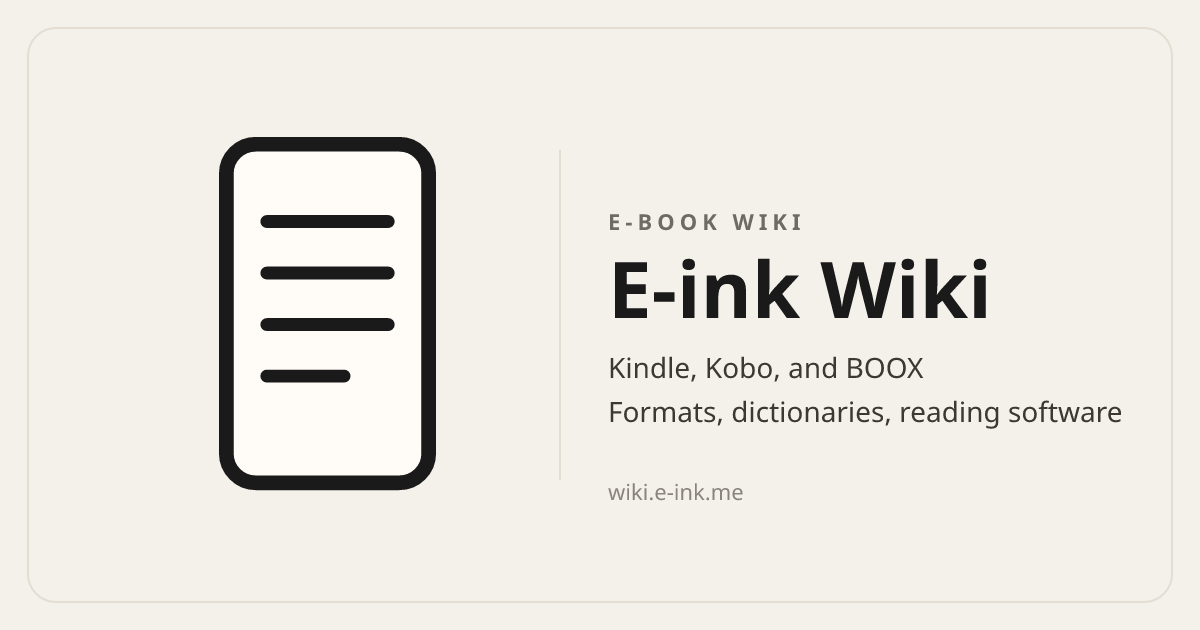
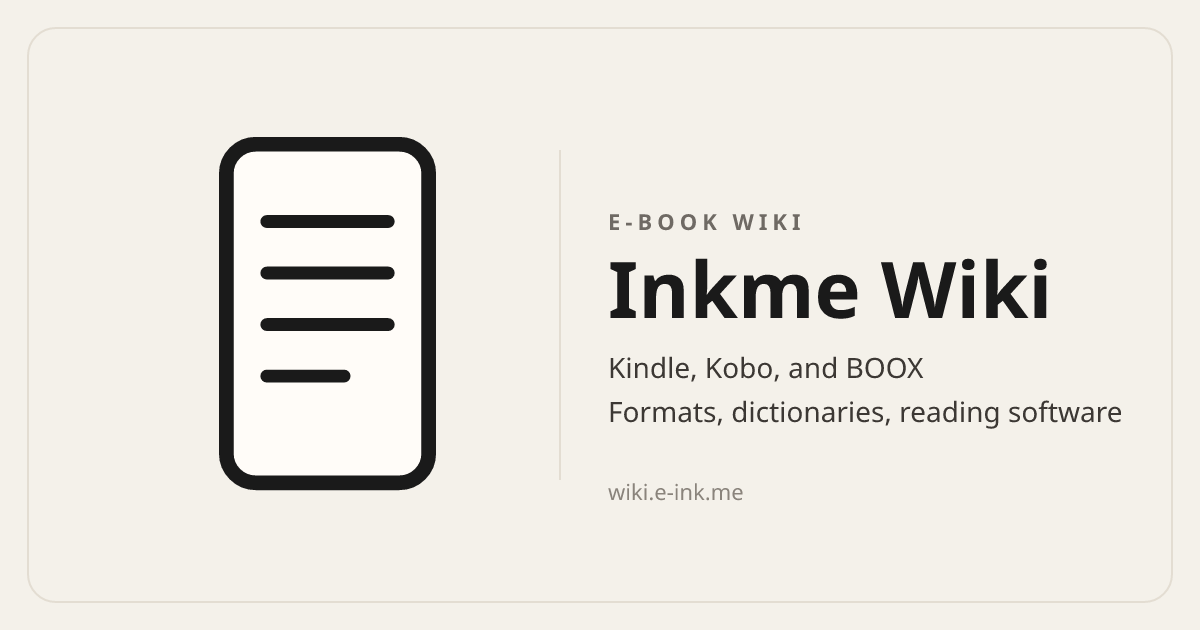
feat: 可见品牌改为 Inkme Wiki (#5)
页眉、页脚、标题、元数据、JSON-LD 与分享图改用站名 Inkme Wiki。
页脚家族链接按 Inkme、News、Games、Nav、Wiki 指向各站根地址。
域名、路由与仓库名不变。

Changed region(s): [[0.4933, 0.3921, 0.8942, 0.5127]]

diff --git a/src/components/SiteShell.tsx b/src/components/SiteShell.tsx
@@ -5,15 +5,23 @@ import { LogoMark } from "@/components/LogoMark";
 import Analytics from "@/components/Analytics";
 import LanguageSwitcher from "@/components/LanguageSwitcher";
 import { getAllPages } from "@/lib/content";
-import { familyHref, LOCALES, localePrefix, ui, type Locale } from "@/lib/i18n";
+import {
+  familyHref,
+  LOCALES,
+  localePrefix,
+  SITE_NAME,
+  ui,
+  type Locale,
+} from "@/lib/i18n";
 
 const footerLinkCls =
   "underline decoration-neutral-300 underline-offset-2 hover:text-neutral-700 dark:hover:text-neutral-200";
 
 /**
- * 全站骨架：header（品牌 / 主站 / GitHub / 语言切换器）+ main + footer + 统计。
+ * 全站骨架：header（品牌 / Inkme / GitHub / 语言切换器）+ main + footer + 统计。
  * 三种语言各有一个 root layout（<html lang> 不同），共用本组件。
- * 页脚有一行家族链接（工具站 / 资讯 / 游戏）；header 的工具站链接与之同一地址。
+ * 页脚有一行家族链接（Inkme / News / Games / Nav / Wiki）；
+ * header 的 Inkme 链接与页脚第一项同一地址。
  */
 export default function SiteShell({
   lang,
@@ -23,6 +31,13 @@ export default function SiteShell({
   children: React.ReactNode;
 }) {
   const t = ui[lang];
+  const familyLinks = [
+    { href: familyHref("inkme"), label: t.familyInkme },
+    { href: familyHref("news"), label: t.familyNews },
+    { href: familyHref("games"), label: t.familyGames },
+    { href: familyHref("nav"), label: t.familyNavLink },
+    { href: familyHref("wiki"), label: t.familyWiki },
+  ];
   const slugMap = Object.fromEntries(
     LOCALES.map((l) => [l, getAllPages(l).map((p) => p.slug)]),
   ) as Record<Locale, string[]>;
@@ -36,15 +51,15 @@ export default function SiteShell({
             className="flex items-center gap-2 text-lg font-bold tracking-tight"
           >
             <LogoMark className="size-7" />
-            E-ink Wiki
+            {SITE_NAME}
           </Link>
           <nav className="flex items-center gap-4 text-sm">
             {/* 普通导航链接回主站（非商业 CTA，保持 wiki 非商业性质） */}
             <a
-              href={familyHref("tools", lang)}
+              href={familyHref("inkme")}
               className="hidden text-neutral-600 hover:text-neutral-900 sm:block dark:text-neutral-400 dark:hover:text-neutral-100"
             >
-              {t.navMainSite}
+              {t.familyInkme}
             </a>
             <a
               href="https://github.com/Selenium39/e-ink-wiki"
@@ -62,19 +77,16 @@ export default function SiteShell({
       <main className="mx-auto max-w-6xl px-4 py-8">{children}</main>
       <footer className="border-t border-neutral-200 py-6 text-center text-xs text-neutral-500 dark:border-neutral-800 dark:text-neutral-400">
         <nav aria-label={t.familyNav} className="mb-2">
-          <a href={familyHref("tools", lang)} className={footerLinkCls}>
-            {t.navMainSite}
-          </a>
-          {" · "}
-          <a href={familyHref("news", lang)} className={footerLinkCls}>
-            {t.familyNews}
-          </a>
-          {" · "}
-          <a href={familyHref("games", lang)} className={footerLinkCls}>
-            {t.familyGames}
-          </a>
+          {familyLinks.map((link, index) => (
+            <span key={link.href}>
+              {index > 0 && " · "}
+              <a href={link.href} className={footerLinkCls}>
+                {link.label}
+              </a>
+            </span>
+          ))}
         </nav>
-        E-ink Wiki · {t.footerLicense} · {t.footerNoAds} ·{" "}
+        {SITE_NAME} · {t.footerLicense} · {t.footerNoAds} ·{" "}
         <a
           href="https://github.com/Selenium39/e-ink-wiki"
           target="_blank"

diff --git a/src/lib/i18n.ts b/src/lib/i18n.ts
@@ -13,6 +13,9 @@ export const LOCALES = ["en", "zh", "es"] as const;
 export type Locale = (typeof LOCALES)[number];
 export const DEFAULT_LOCALE: Locale = "en";
 
+/** 可见站名。域名仍是 wiki.e-ink.me，仓库名不改。 */
+export const SITE_NAME = "Inkme Wiki";
+
 /** <html lang> 值 */
 export const HTML_LANG: Record<Locale, string> = {
   en: "en",
@@ -38,43 +41,32 @@ export function isLocale(value: string): value is Locale {
 }
 
 /**
- * 家族站点（不含 wiki 自身）。各站语言路径形状不同，不能套本站 localePrefix：
- * - e-ink.me：/en /zh /es，无尾斜杠（带斜杠会被 308 剥掉）
- * - news.e-ink.me：/en /zh，无尾斜杠；根路径是错误页，canonical 在 /en。没有西语，es 落到英文版
- * - games.e-ink.me：/en/ /zh/ /es/，保留尾斜杠
- * 不带 UTM，也不加 nofollow。
+ * 家族站点。页脚三语共用这一组根地址和品牌名，不带语言前缀、UTM 或 nofollow。
+ * 顺序：Inkme、Inkme News、Inkme Games、Inkme Nav、Inkme Wiki。
  */
 export const familySites = {
-  tools: {
-    en: "https://e-ink.me/en",
-    zh: "https://e-ink.me/zh",
-    es: "https://e-ink.me/es",
-  },
-  news: {
-    en: "https://news.e-ink.me/en",
-    zh: "https://news.e-ink.me/zh",
-    es: "https://news.e-ink.me/en",
-  },
-  games: {
-    en: "https://games.e-ink.me/en/",
-    zh: "https://games.e-ink.me/zh/",
-    es: "https://games.e-ink.me/es/",
-  },
+  inkme: "https://e-ink.me",
+  news: "https://news.e-ink.me",
+  games: "https://games.e-ink.me",
+  nav: "https://nav.e-ink.me",
+  wiki: "https://wiki.e-ink.me",
 } as const;
 
 export type FamilySite = keyof typeof familySites;
 
-export function familyHref(site: FamilySite, lang: Locale): string {
-  return familySites[site][lang];
+export function familyHref(site: FamilySite): string {
+  return familySites[site];
 }
 
 /** 短 UI 标签（涉及链接与长句的文案在使用组件内按 lang 分支） */
 export const ui = {
   en: {
-    navMainSite: "E-ink Tools",
-    familyNews: "E-ink News",
-    familyGames: "E-ink Games",
-    familyNav: "E-ink family",
+    familyInkme: "Inkme",
+    familyNews: "Inkme News",
+    familyGames: "Inkme Games",
+    familyNavLink: "Inkme Nav",
+    familyWiki: "Inkme Wiki",
+    familyNav: "Inkme sites",
     navGitHub: "GitHub",
     sidebarNav: "Contents",
     fromMobileRead: "From MobileRead Wiki (original)",
@@ -90,10 +82,12 @@ export const ui = {
     goHome: "Go to homepage",
   },
   zh: {
-    navMainSite: "E-ink 工具站",
-    familyNews: "E-ink 资讯",
-    familyGames: "E-ink 游戏",
-    familyNav: "E-ink 家族站点",
+    familyInkme: "Inkme",
+    familyNews: "Inkme News",
+    familyGames: "Inkme Games",
+    familyNavLink: "Inkme Nav",
+    familyWiki: "Inkme Wiki",
+    familyNav: "Inkme 站点",
     navGitHub: "GitHub",
     sidebarNav: "目录",
     fromMobileRead: "译自 MobileRead Wiki（原文）",
@@ -109,10 +103,12 @@ export const ui = {
     goHome: "返回首页",
   },
   es: {
-    navMainSite: "Herramientas E-ink",
-    familyNews: "Noticias E-ink",
-    familyGames: "Juegos E-ink",
-    familyNav: "Familia E-ink",
+    familyInkme: "Inkme",
+    familyNews: "Inkme News",
+    familyGames: "Inkme Games",
+    familyNavLink: "Inkme Nav",
+    familyWiki: "Inkme Wiki",
+    familyNav: "Sitios Inkme",
     navGitHub: "GitHub",
     sidebarNav: "Índice",
     fromMobileRead: "De MobileRead Wiki (original)",

diff --git a/src/lib/seo.ts b/src/lib/seo.ts
@@ -5,6 +5,7 @@ import {
   HTML_LANG,
   LOCALES,
   localePrefix,
+  SITE_NAME,
   type Locale,
 } from "@/lib/i18n";
 
@@ -24,9 +25,9 @@ const OG_LOCALE: Record<Locale, string> = {
 };
 
 const OG_ALT: Record<Locale, string> = {
-  en: "E-ink Wiki, an e-book knowledge base",
-  zh: "E-ink Wiki 电子书知识库",
-  es: "E-ink Wiki, una base de conocimientos sobre libros electrónicos",
+  en: `${SITE_NAME}, an e-book knowledge base`,
+  zh: `${SITE_NAME} 电子书知识库`,
+  es: `${SITE_NAME}, una base de conocimientos sobre libros electrónicos`,
 };
 
 export const siteViewport: Viewport = {
@@ -97,7 +98,7 @@ export function openGraphFor(
 ): NonNullable<Metadata["openGraph"]> {
   return {
     type,
-    siteName: "E-ink Wiki",
+    siteName: SITE_NAME,
     url: pathname,
     locale: OG_LOCALE[lang],
     alternateLocale: LOCALES.filter((item) => item !== lang).map(
@@ -114,16 +115,16 @@ export function rootMetadata(lang: Locale): Metadata {
     title: {
       default:
         lang === "zh"
-          ? "E-ink Wiki — 电子书 Wiki"
+          ? `${SITE_NAME} — 电子书 Wiki`
           : lang === "es"
-            ? "E-ink Wiki — Wiki de libros electrónicos"
-            : "E-ink Wiki — E-book Wiki",
-      template: "%s — E-ink Wiki",
+            ? `${SITE_NAME} — Wiki de libros electrónicos`
+            : `${SITE_NAME} — E-book Wiki`,
+      template: `%s — ${SITE_NAME}`,
     },
     description: DESCRIPTION[lang],
-    applicationName: "E-ink Wiki",
-    authors: [{ name: "E-ink Wiki", url: SITE_URL }],
-    creator: "E-ink Wiki",
+    applicationName: SITE_NAME,
+    authors: [{ name: SITE_NAME, url: SITE_URL }],
+    creator: SITE_NAME,
     icons: {
       icon: [
         { url: "/favicon.ico", sizes: "48x48" },
@@ -167,7 +168,7 @@ export function homeJsonLd(lang: Locale): Record<string, unknown> {
       {
         "@type": "WebSite",
         "@id": `${SITE_URL}/#website`,
-        name: "E-ink Wiki",
+        name: SITE_NAME,
         url: absoluteUrl(pagePath(lang)),
         description: DESCRIPTION[lang],
         inLanguage: LOCALES.map((item) => HTML_LANG[item]),
@@ -176,7 +177,7 @@ export function homeJsonLd(lang: Locale): Record<string, unknown> {
       {
         "@type": "Organization",
         "@id": `${SITE_URL}/#organization`,
-        name: "E-ink Wiki",
+        name: SITE_NAME,
         url: SITE_URL,
         logo: {
           "@type": "ImageObject",

diff --git a/src/components/LicenseFooter.tsx b/src/components/LicenseFooter.tsx
@@ -1,5 +1,5 @@
 import type { WikiFrontmatter } from "@/lib/content";
-import type { Locale } from "@/lib/i18n";
+import { SITE_NAME, type Locale } from "@/lib/i18n";
 
 /**
  * 页脚许可声明——合规义务的落点，每篇必带，按页面语言渲染。
@@ -34,20 +34,20 @@ export default function LicenseFooter({
         <p>
           {lang === "zh" && (
             <>
-              本文为 E-ink Wiki 原创内容{fm.author ? `，作者 ${fm.author}` : ""}，以{" "}
+              本文为 {SITE_NAME} 原创内容{fm.author ? `，作者 ${fm.author}` : ""}，以{" "}
               {cc("CC BY-NC-SA 3.0")} 许可发布。
             </>
           )}
           {lang === "en" && (
             <>
-              This article is original content by E-ink Wiki
+              This article is original content by {SITE_NAME}
               {fm.author ? `, written by ${fm.author}` : ""}, published under{" "}
               {cc("CC BY-NC-SA 3.0")}.
             </>
           )}
           {lang === "es" && (
             <>
-              Este artículo es contenido original de E-ink Wiki
+              Este artículo es contenido original de {SITE_NAME}
               {fm.author ? `, escrito por ${fm.author}` : ""}, publicado bajo{" "}
               {cc("CC BY-NC-SA 3.0")}.
             </>

diff --git a/src/components/WikiPageView.tsx b/src/components/WikiPageView.tsx
@@ -7,7 +7,7 @@ import LicenseFooter from "@/components/LicenseFooter";
 import Figure from "@/components/Figure";
 import JsonLd from "@/components/JsonLd";
 import { getPageBySlug } from "@/lib/content";
-import { HTML_LANG, type Locale } from "@/lib/i18n";
+import { HTML_LANG, SITE_NAME, type Locale } from "@/lib/i18n";
 import {
   absoluteUrl,
   languageAlternates,
@@ -62,7 +62,7 @@ export async function WikiPageView({
                 {
                   "@type": "ListItem",
                   position: 1,
-                  name: "E-ink Wiki",
+                  name: SITE_NAME,
                   item: absoluteUrl(pagePath(lang)),
                 },
                 {

diff --git a/src/app/manifest.ts b/src/app/manifest.ts
@@ -1,11 +1,12 @@
 import type { MetadataRoute } from "next";
+import { SITE_NAME } from "@/lib/i18n";
 
 export const dynamic = "force-static";
 
 export default function manifest(): MetadataRoute.Manifest {
   return {
-    name: "E-ink Wiki",
-    short_name: "E-ink Wiki",
+    name: SITE_NAME,
+    short_name: SITE_NAME,
     description: "E-book wiki for devices, formats, and reading software.",
     start_url: "/",
     scope: "/",

diff --git a/content/es/boox/overview.md b/content/es/boox/overview.md
@@ -6,7 +6,7 @@ order: 1
 description: "Introducción a los lectores de tinta electrónica BOOX (Onyx): la diferencia esencial frente a Kindle/Kobo que supone su Android abierto, el panorama de la línea oficial de productos (lectoras de alta velocidad y tablets de productividad), las características clave de BOOXOS y NeoReader, los escenarios típicos para lectores de chino y un índice de recursos oficiales de soporte."
 ---
 
-> Este artículo es contenido original de E-ink Wiki, elaborado a partir del [sitio de soporte oficial de BOOX](https://support.boox.com/) y de informes públicos; la fuente de cada dato se indica en el propio texto.
+> Este artículo es contenido original de Inkme Wiki, elaborado a partir del [sitio de soporte oficial de BOOX](https://support.boox.com/) y de informes públicos; la fuente de cada dato se indica en el propio texto.
 > La alineación de dispositivos y las funciones del sistema corresponden a **2026-11**; la línea de productos BOOX evoluciona rápido, así que para decisiones de compra y de uso consulte siempre la información más reciente en la [web oficial](https://zh.boox.com/) y en el sitio de soporte oficial.
 > Los tutoriales de sistema mencionados en el texto (modos de refresco, transferencia de archivos, escritura a mano, etc.) pueden localizarse en esta [lista oficial de preguntas frecuentes](https://support.boox.com/fee6).
 

diff --git a/content/en/boox/overview.md b/content/en/boox/overview.md
@@ -6,7 +6,7 @@ order: 1
 description: An introduction to BOOX (Onyx) e-readers — how the open Android system differs from Kindle/Kobo, the current product lines, BOOXOS and NeoReader highlights, typical use cases, and an index of official support resources.
 ---
 
-> This article is original content by E-ink Wiki, compiled from the [official BOOX support site](https://support.boox.com/) and public reporting; specific facts are sourced inline.
+> This article is original content by Inkme Wiki, compiled from the [official BOOX support site](https://support.boox.com/) and public reporting; specific facts are sourced inline.
 > Product lineup and system features are current as of **Nov 2026** — BOOX refreshes its lineup quickly, so check the [official site](https://zh.boox.com/) and support pages for the latest information before buying.
 > The system tutorials mentioned below (refresh modes, file transfer, handwriting, etc.) can all be found in the [official FAQ list](https://support.boox.com/fee6).
 

diff --git a/content/es/boox/opub.md b/content/es/boox/opub.md
@@ -6,7 +6,7 @@ order: 2
 description: "Qué es un archivo OPUB en el BOOX Picco y cómo BOOX Tiles lleva los libros al dispositivo."
 ---
 
-> Este artículo es contenido original de E-ink Wiki. Los datos del dispositivo y de la transferencia proceden de la [página de producto del Picco](https://shop.boox.com/products/picco) (consultada el 2026-11-12) y de los informes públicos citados al final. BOOX no ha publicado una especificación de este archivo.
+> Este artículo es contenido original de Inkme Wiki. Los datos del dispositivo y de la transferencia proceden de la [página de producto del Picco](https://shop.boox.com/products/picco) (consultada el 2026-11-12) y de los informes públicos citados al final. BOOX no ha publicado una especificación de este archivo.
 > Picco es una línea nueva. Los pasos de transferencia pueden cambiar; antes de seguir uno, compruebe [booxtiles.com](https://booxtiles.com/) y la página de producto.
 
 ## Qué es OPUB

diff --git a/content/zh/boox/overview.md b/content/zh/boox/overview.md
@@ -6,7 +6,7 @@ order: 1
 description: BOOX（文石）电纸书入门：开放安卓系统与 Kindle/Kobo 的本质差异、官方产品线总览（高速阅读器与生产力平板）、BOOXOS 与 NeoReader 核心特性、中文用户典型场景，以及官方支持资源索引。
 ---
 
-> 本文为 E-ink Wiki 原创内容，依据 [BOOX 官方支持站](https://support.boox.com/)与公开报道整理，具体事实均在正文标注来源。
+> 本文为 Inkme Wiki 原创内容，依据 [BOOX 官方支持站](https://support.boox.com/)与公开报道整理，具体事实均在正文标注来源。
 > 机型阵容与系统功能截至 **2026-11**，BOOX 产品线迭代较快，购买与使用决策请以[官网](https://zh.boox.com/)与官方支持站最新信息为准。
 > 文中提及的系统教程（刷新模式、文件传输、手写等）均可在这份[官方常见问题列表](https://support.boox.com/fee6)中检索到。
 

diff --git a/content/en/boox/opub.md b/content/en/boox/opub.md
@@ -6,7 +6,7 @@ order: 2
 description: "What an OPUB file is on BOOX Picco, and how BOOX Tiles puts a book on the device."
 ---
 
-> This article is original content by E-ink Wiki. The device and transfer facts come from the [Picco product page](https://shop.boox.com/products/picco) (accessed 2026-11-12) and from public reporting cited below. BOOX has not published a specification for this file.
+> This article is original content by Inkme Wiki. The device and transfer facts come from the [Picco product page](https://shop.boox.com/products/picco) (accessed 2026-11-12) and from public reporting cited below. BOOX has not published a specification for this file.
 > Picco is a new product line. Transfer details can change; check [booxtiles.com](https://booxtiles.com/) and the product page before you rely on a step.
 
 ## What OPUB is

diff --git a/content/zh/boox/opub.md b/content/zh/boox/opub.md
@@ -6,7 +6,7 @@ order: 2
 description: "OPUB 是什么：BOOX Picco 上的书籍文件，以及 BOOX Tiles 怎样把书放进设备。"
 ---
 
-> 本文为 E-ink Wiki 原创内容。设备与传书事实来自 [Picco 商品页](https://shop.boox.com/products/picco)（访问于 2026-11-12）以及文末列出的公开报道。BOOX 没有公布这一文件的格式规范。
+> 本文为 Inkme Wiki 原创内容。设备与传书事实来自 [Picco 商品页](https://shop.boox.com/products/picco)（访问于 2026-11-12）以及文末列出的公开报道。BOOX 没有公布这一文件的格式规范。
 > Picco 是新的产品线，传书步骤可能调整。动手之前请以 [booxtiles.com](https://booxtiles.com/) 和商品页的最新说明为准。
 
 ## OPUB 是什么
